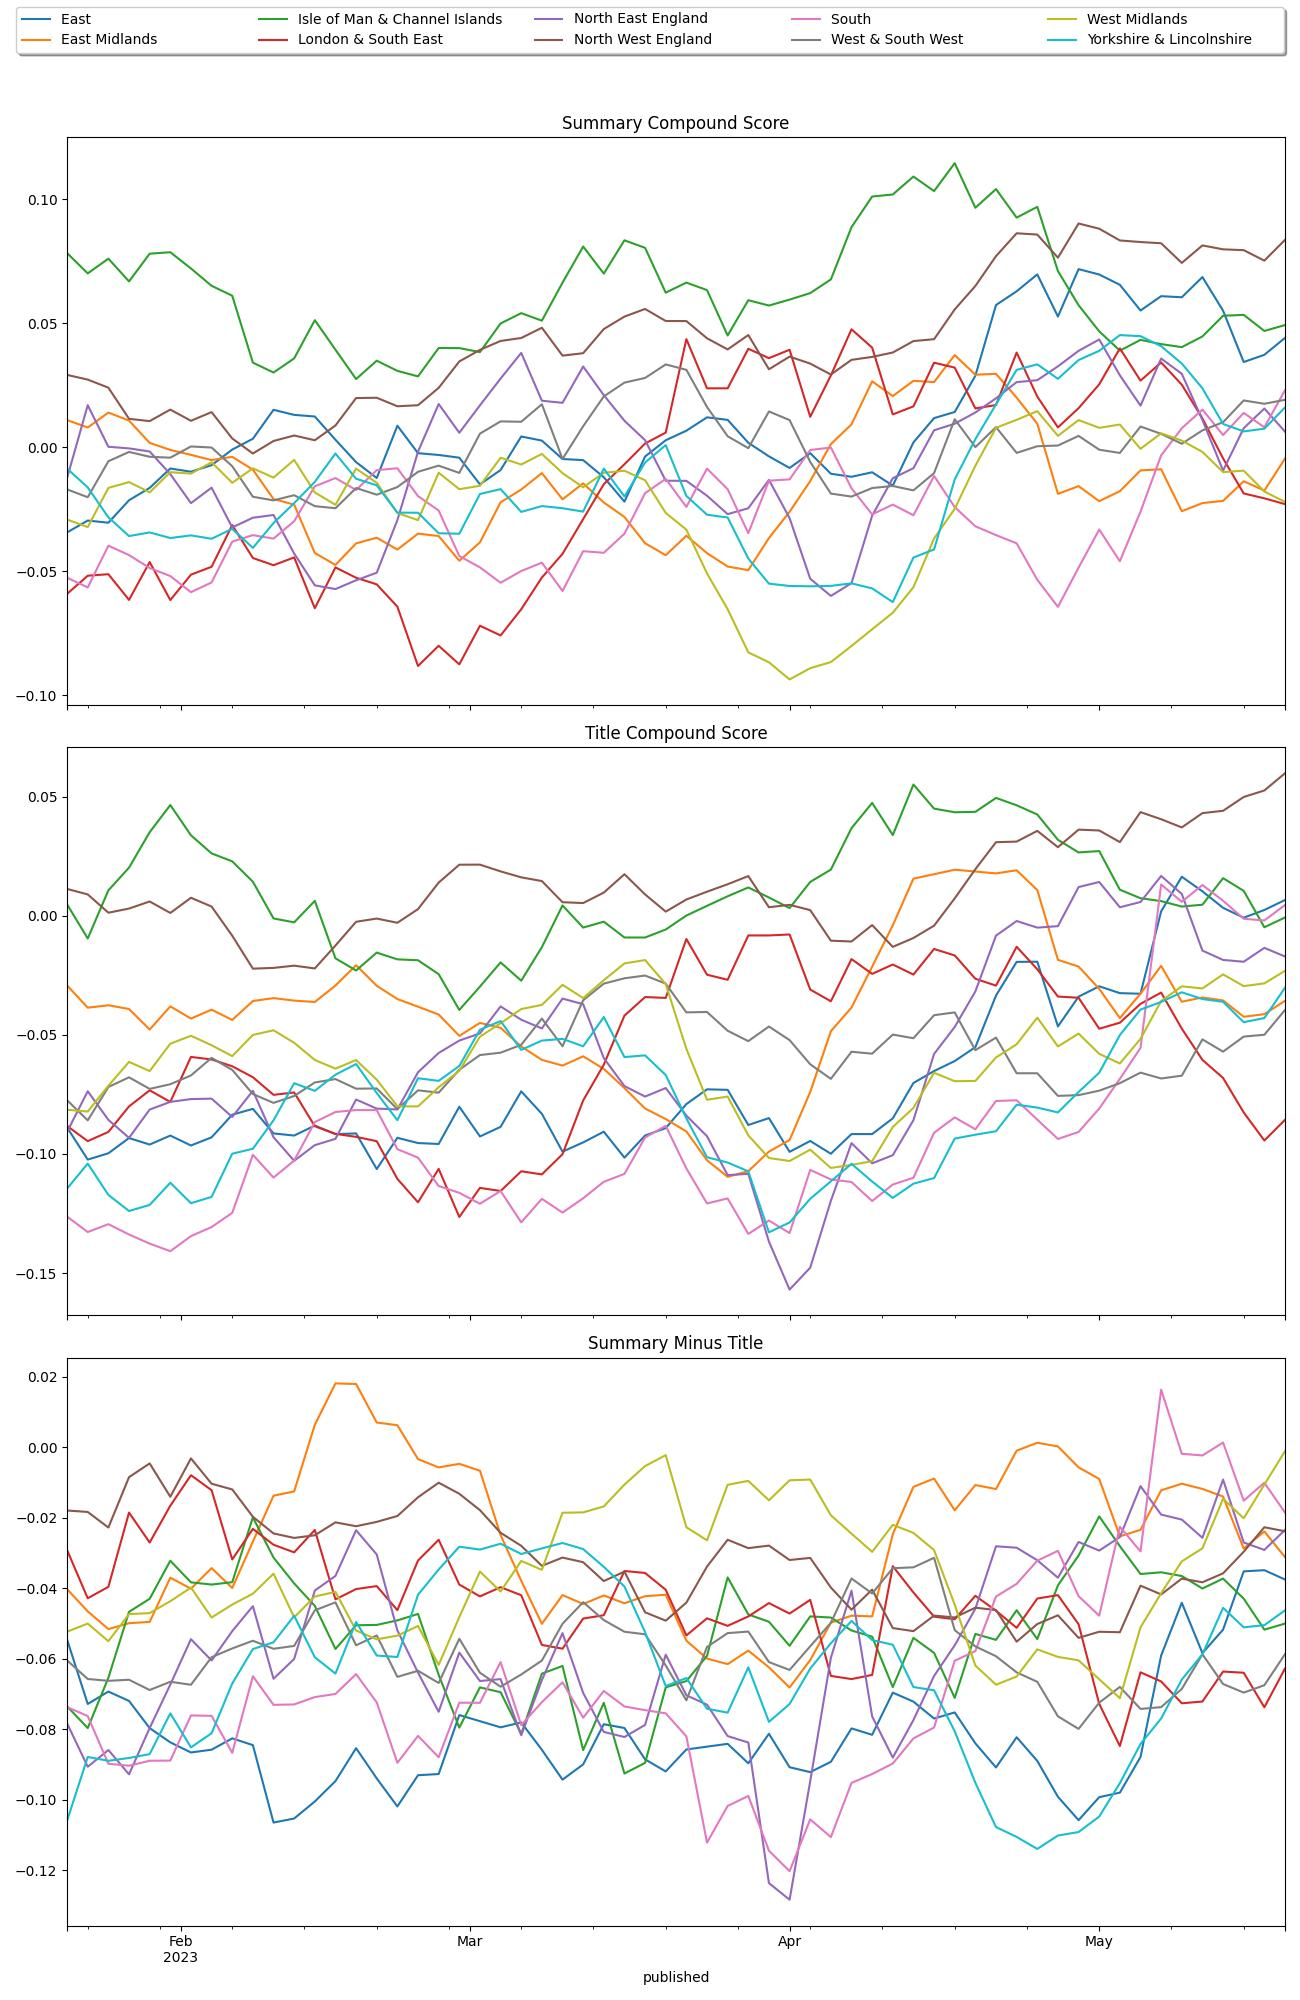
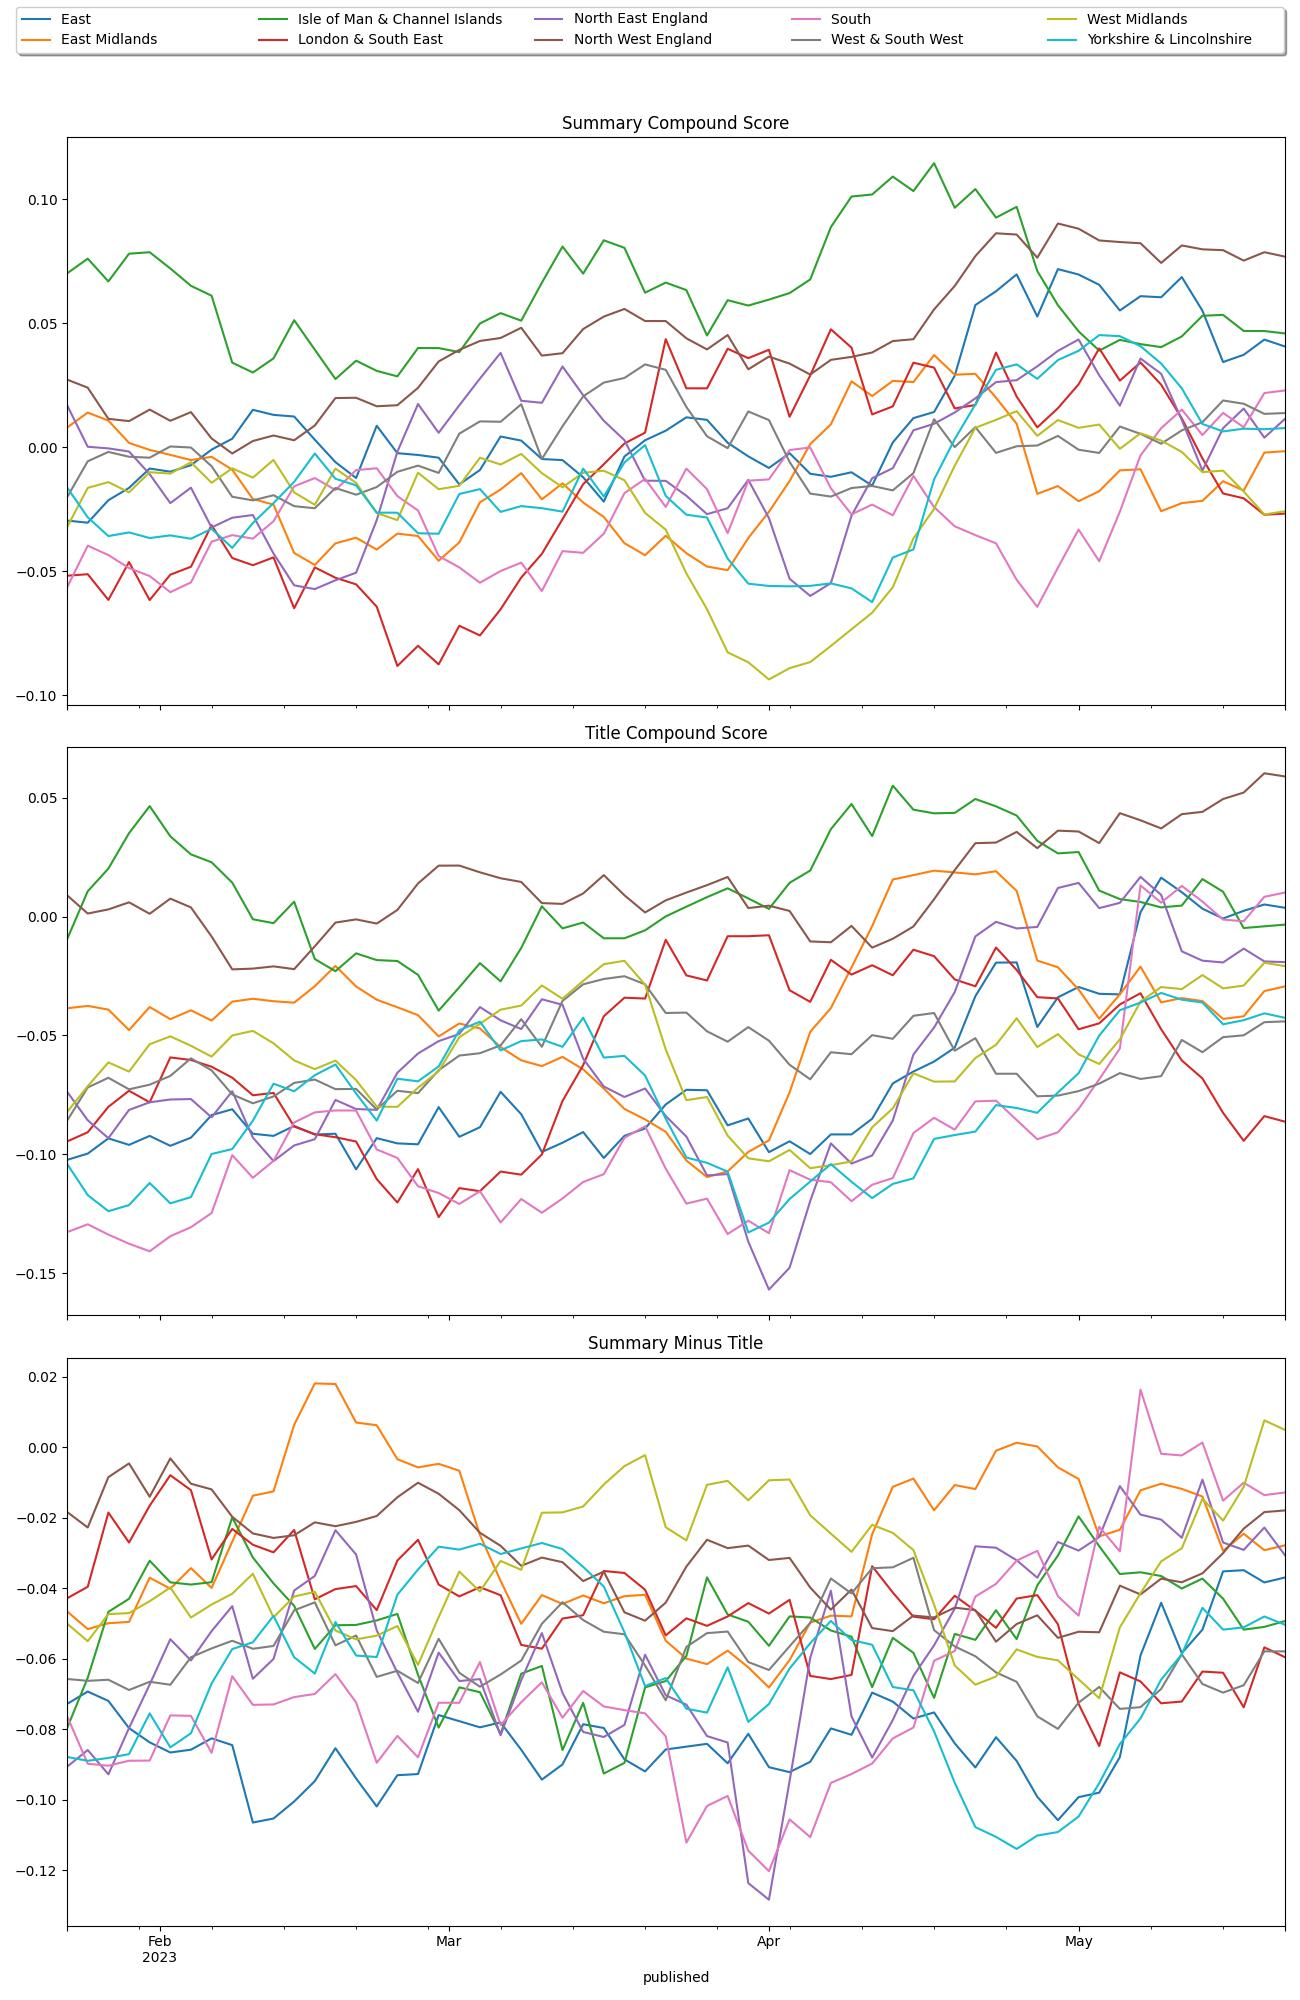
at 2023-05-21 10:50 ran: [Stage: 'complete-basic_report']

diff --git a/reports/complete/latest.md b/reports/complete/latest.md
@@ -1,13 +1,12 @@
-| region                        | published                  | summary                                                                                                                                                                                        | title                                             | url                                       |   summary_compound_score |   title_compound_score |   summary_minus_title |
-|:------------------------------|:---------------------------|:-----------------------------------------------------------------------------------------------------------------------------------------------------------------------------------------------|:--------------------------------------------------|:------------------------------------------|-------------------------:|-----------------------:|----------------------:|
-| East                          | 2023-05-20 08:41:42        | Watch live coverage of day one of the Birmingham circuit of the British Kabaddi League.                                                                                                        | Watch: British Kabaddi League in Birmingham       | /sport/live/scotland/65620952             |                   0      |                 0      |                0      |
-| East Midlands                 | 2023-05-20 08:41:42        | Watch live coverage of day one of the Birmingham circuit of the British Kabaddi League.                                                                                                        | Watch: British Kabaddi League in Birmingham       | /sport/live/scotland/65620952             |                   0      |                 0      |                0      |
-| Isle of Man & Channel Islands | 2023-05-20 09:04:09.983000 | The Isle of Man's Electoral Commission is set to hold four public sessions to gather opinions.                                                                                                 | Views sought on Isle of Man election process      | /news/articles/c519zx0ervro               |                   0      |                 0      |                0      |
-| London & South East           | 2023-05-19 20:40:40        | All you need to know about promotion, relegation and qualification for Europe in England and Scotland's top men's football leagues, as well as what's up for grabs in the Women's Super League | Ups, downs and the race for Europe                | /sport/football/64836963                  |                   0.7783 |                 0      |               -0.7783 |
-| North East England            | 2023-05-20 08:16:00        | The south west's largest LGBTQ+ choir, with over 120 members, is marking its 15th anniversary.                                                                                                 | Choir offering safe space for LGBTQ+ community    | /news/uk-england-bristol-65620156         |                   0.34   |                -0.2023 |               -0.5423 |
-| North East England            | 2023-05-20 08:16:00        | It will see the highest level of daily security on the network on "almost every service" at night.                                                                                             | Extra Metro security to deter troublemakers       | /news/uk-england-tyne-65645078            |                   0.34   |                -0.2023 |               -0.5423 |
-| North West England            | 2023-05-20 08:41:42        | Watch live coverage of day one of the Birmingham circuit of the British Kabaddi League.                                                                                                        | Watch: British Kabaddi League in Birmingham       | /sport/live/scotland/65620952             |                   0      |                 0      |                0      |
-| South                         | 2023-05-20 09:21:45        | The BEACH building will house the emergency department at Royal Bournemouth Hospital.                                                                                                          | Bagpiper leads hospital topping out ceremony      | /news/uk-england-dorset-65656550          |                  -0.3818 |                 0      |                0.3818 |
-| West & South West             | 2023-05-20 08:58:53        | Sixteen small businesses have been given one week to settle their energy bills with their landlords.                                                                                           | Family firms facing eviction in energy bill row   | /news/uk-england-gloucestershire-65654167 |                   0.2732 |                -0.2263 |               -0.4995 |
-| West Midlands                 | 2023-05-20 08:41:42        | Watch live coverage of day one of the Birmingham circuit of the British Kabaddi League.                                                                                                        | Watch: British Kabaddi League in Birmingham       | /sport/live/scotland/65620952             |                   0      |                 0      |                0      |
-| Yorkshire & Lincolnshire      | 2023-05-20 08:27:20        | The three-week event gives people to chance to explore the outdoors, the council says.                                                                                                         | Festival celebrates 'stunning' Lincolnshire Wolds | /news/uk-england-lincolnshire-65649068    |                   0.25   |                 0.7845 |                0.5345 |
+| region                        | published           | summary                                                                                                   | title                                                   | url                                            |   summary_compound_score |   title_compound_score |   summary_minus_title |
+|:------------------------------|:--------------------|:----------------------------------------------------------------------------------------------------------|:--------------------------------------------------------|:-----------------------------------------------|-------------------------:|-----------------------:|----------------------:|
+| East                          | 2023-05-21 08:19:45 | Planners secure funding for 10 schemes aiming to help people "leave the car at home".                     | Nearly £3m for county's walking and cycling routes      | /news/uk-england-norfolk-65645516              |                   0.5994 |                 0      |               -0.5994 |
+| East Midlands                 | 2023-05-21 08:12:37 | Great Central Railway's largest locomotive is to pull a 50-wagon freight train to mark the occasion.      | Heritage railway to celebrate 50 years in operation     | /news/uk-england-leicestershire-65623181       |                   0.6249 |                 0.5719 |               -0.053  |
+| Isle of Man & Channel Islands | 2023-05-21 08:19:53 | The wild orchid fields are located at Le Noir Pré in St Ouen's Bay and La Blinerie in Grouville.          | Trust opens wild orchid fields to public                | /news/world-europe-jersey-65633041             |                   0      |                 0.5106 |                0.5106 |
+| London & South East           | 2023-05-21 09:22:36 | Police say he may have been hit by a dark-coloured car close to the ring road in Epsom.                   | Man, 44, found hurt in road after suspected crash       | /news/uk-england-surrey-65663484               |                   0      |                -0.7906 |               -0.7906 |
+| North East England            | 2023-05-21 08:11:32 | Care home manager Caroline Bowsted said it was vital to tell them they were "important and empowered".    | 'Cruise shows care home residents they're still worthy' | /news/uk-england-tyne-65647736                 |                   0.7351 |                 0.7269 |               -0.0082 |
+| North West England            | 2023-05-21 08:18:13 | The viewing point at Malham Cove is open on selected dates with volunteers on hand to help bird watchers. | Falcon viewing point reopens after Covid pause          | /news/uk-england-york-north-yorkshire-65663030 |                   0.7096 |                 0      |               -0.7096 |
+| South                         | 2023-05-21 09:03:56 | Rocks and debris tumbled down the cliff at Small Hope Beach, Shanklin, on Saturday evening.               | Public warned to stay clear of landslip                 | /news/uk-england-hampshire-65663473            |                   0.4404 |                 0.128  |               -0.3124 |
+| West & South West             | 2023-05-21 09:20:59 | Volunteers believe they have found evidence of a grandstand at Cleeve Hill.                               | The search for the original Cheltenham racecourse       | /news/uk-england-gloucestershire-65603779      |                   0      |                 0.3182 |                0.3182 |
+| West Midlands                 | 2023-05-21 09:10:19 | John Cotton said he would seek to "heal wounds and bring people together" after a turbulent period.       | Labour chooses new Birmingham council leader            | /news/uk-england-birmingham-65663393           |                   0      |                 0      |                0      |
+| Yorkshire & Lincolnshire      | 2023-05-21 08:18:13 | The viewing point at Malham Cove is open on selected dates with volunteers on hand to help bird watchers. | Falcon viewing point reopens after Covid pause          | /news/uk-england-york-north-yorkshire-65663030 |                   0.7096 |                 0      |               -0.7096 |
